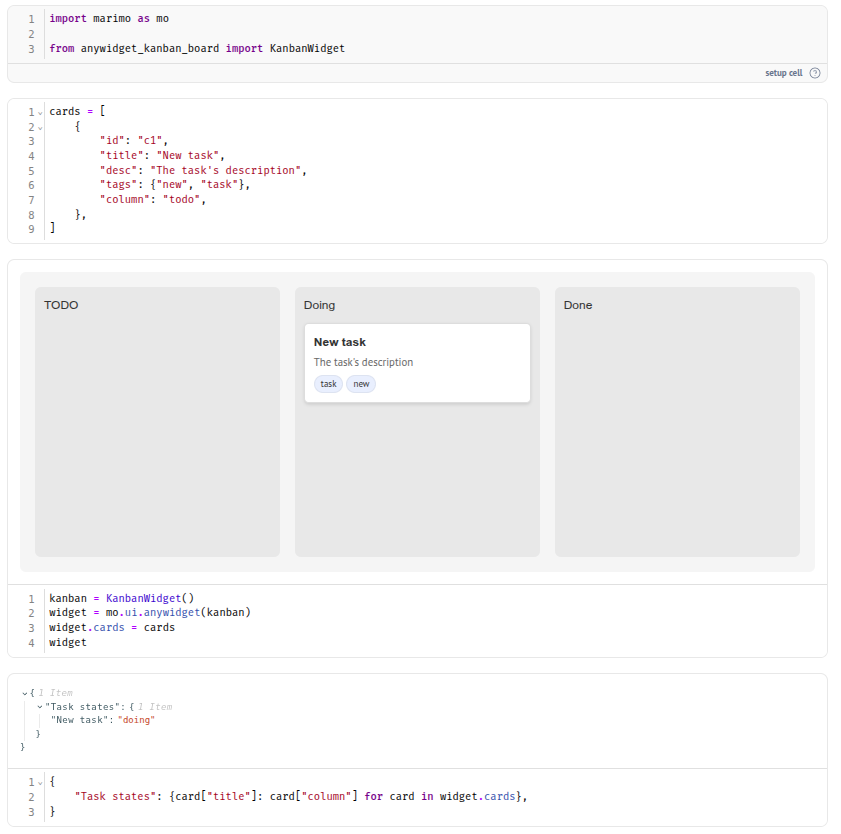
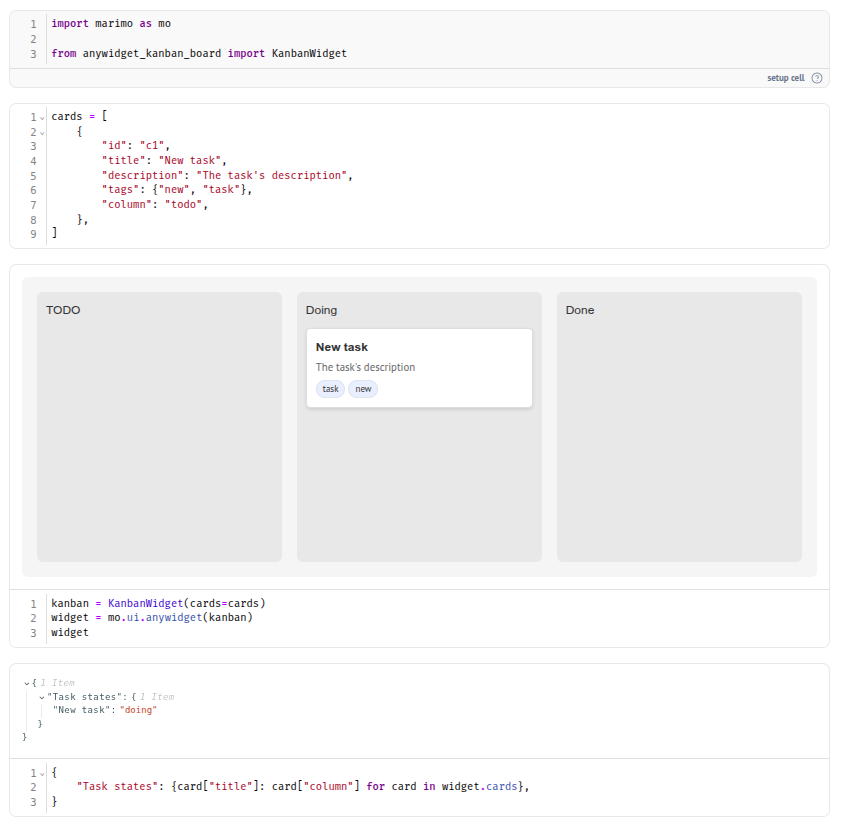
Replace "desc" with "description"

diff --git a/src/anywidget_kanban_board/kanban_board_esm.js b/src/anywidget_kanban_board/kanban_board_esm.js
@@ -81,13 +81,13 @@ function render({ model, el }) {
         title.style.fontFamily = 'Arial, sans-serif';
         cardEl.appendChild(title);
 
-        if (card.desc) {
-            const desc = document.createElement('div');
-            desc.textContent = card.desc;
-            desc.style.fontSize = '0.9em';
-            desc.style.color = '#666';
-            desc.style.marginTop = '4px';
-            cardEl.appendChild(desc);
+        if (card.description) {
+            const description = document.createElement('div');
+            description.textContent = card.description;
+            description.style.fontSize = '0.9em';
+            description.style.color = '#666';
+            description.style.marginTop = '4px';
+            cardEl.appendChild(description);
         }
 
         if (card.tags && Array.isArray(card.tags) && card.tags.length > 0) {

diff --git a/example/kanban_widget_mo.py b/example/kanban_widget_mo.py
@@ -15,7 +15,7 @@ def _():
         {
             "id": "c1",
             "title": "New task",
-            "desc": "The task's description",
+            "description": "The task's description",
             "tags": {"new", "task"},
             "column": "todo",
         },
@@ -25,9 +25,8 @@ def _():
 
 @app.cell
 def _(cards):
-    kanban = KanbanWidget()
+    kanban = KanbanWidget(cards=cards)
     widget = mo.ui.anywidget(kanban)
-    widget.cards = cards
     widget
     return (widget,)
 
